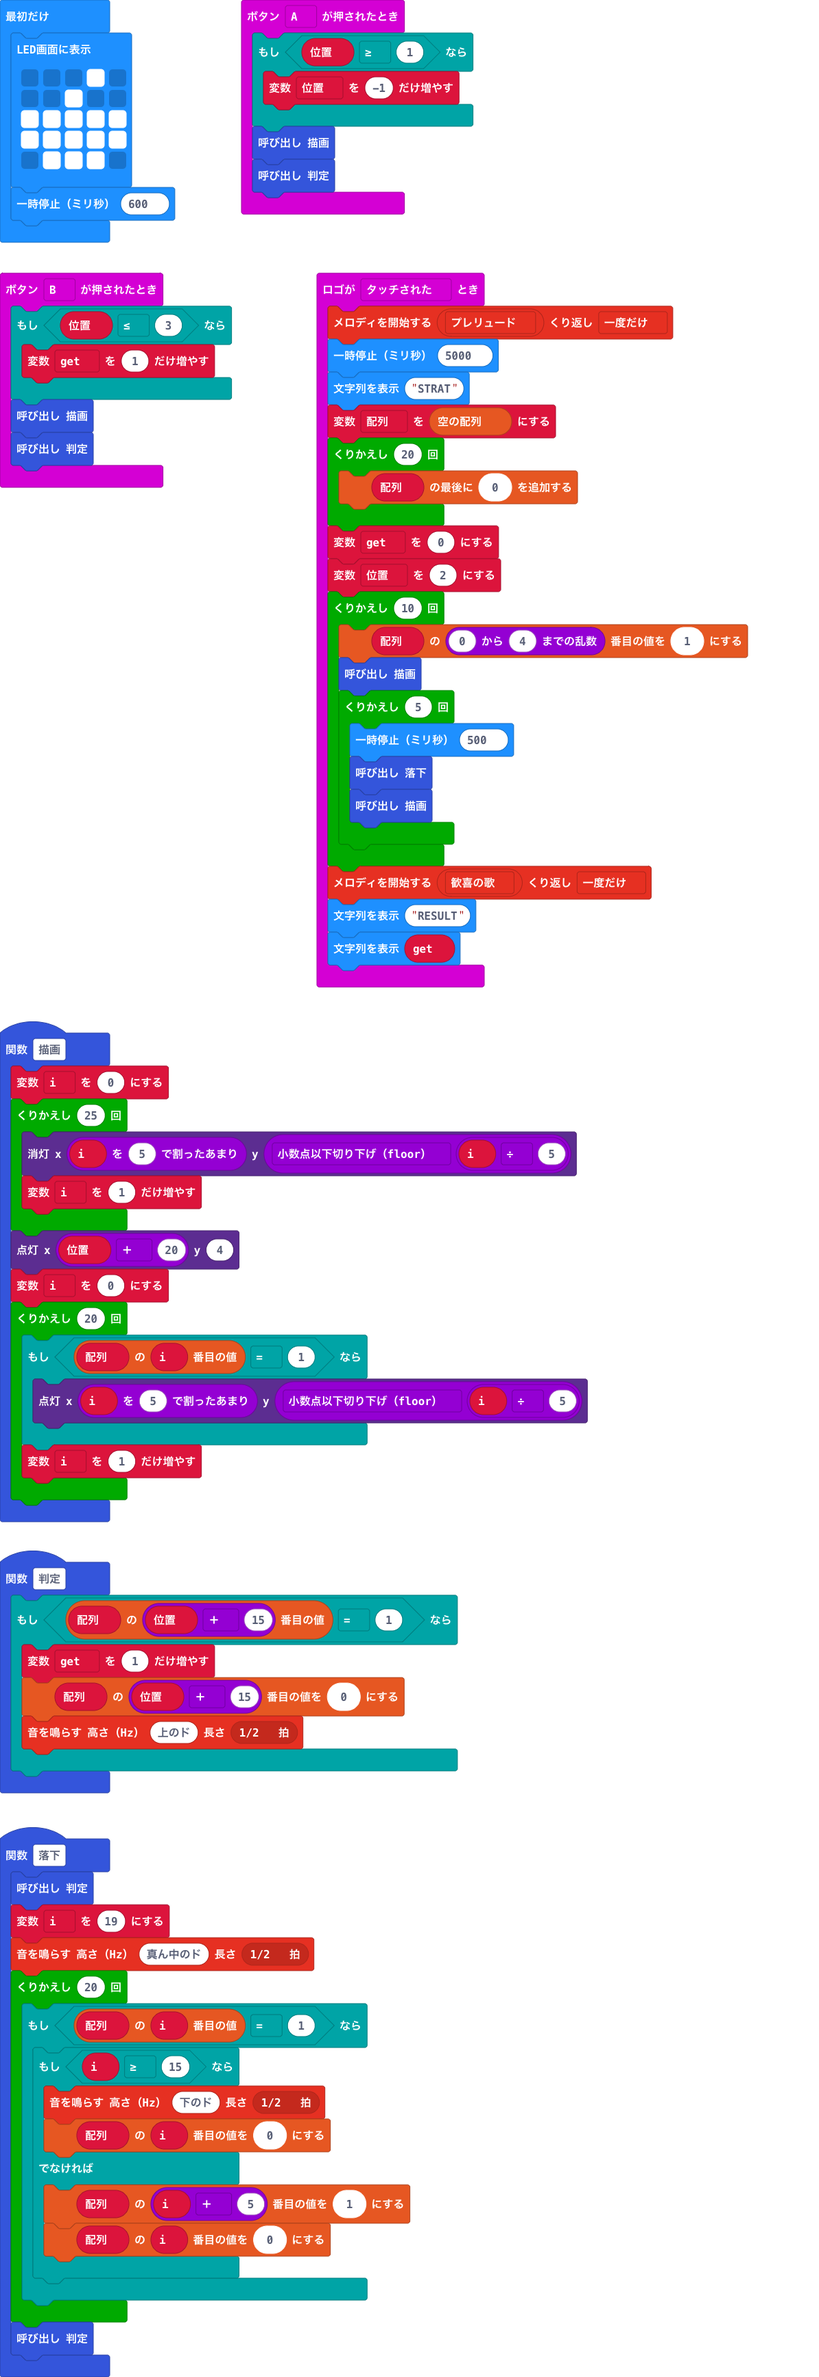
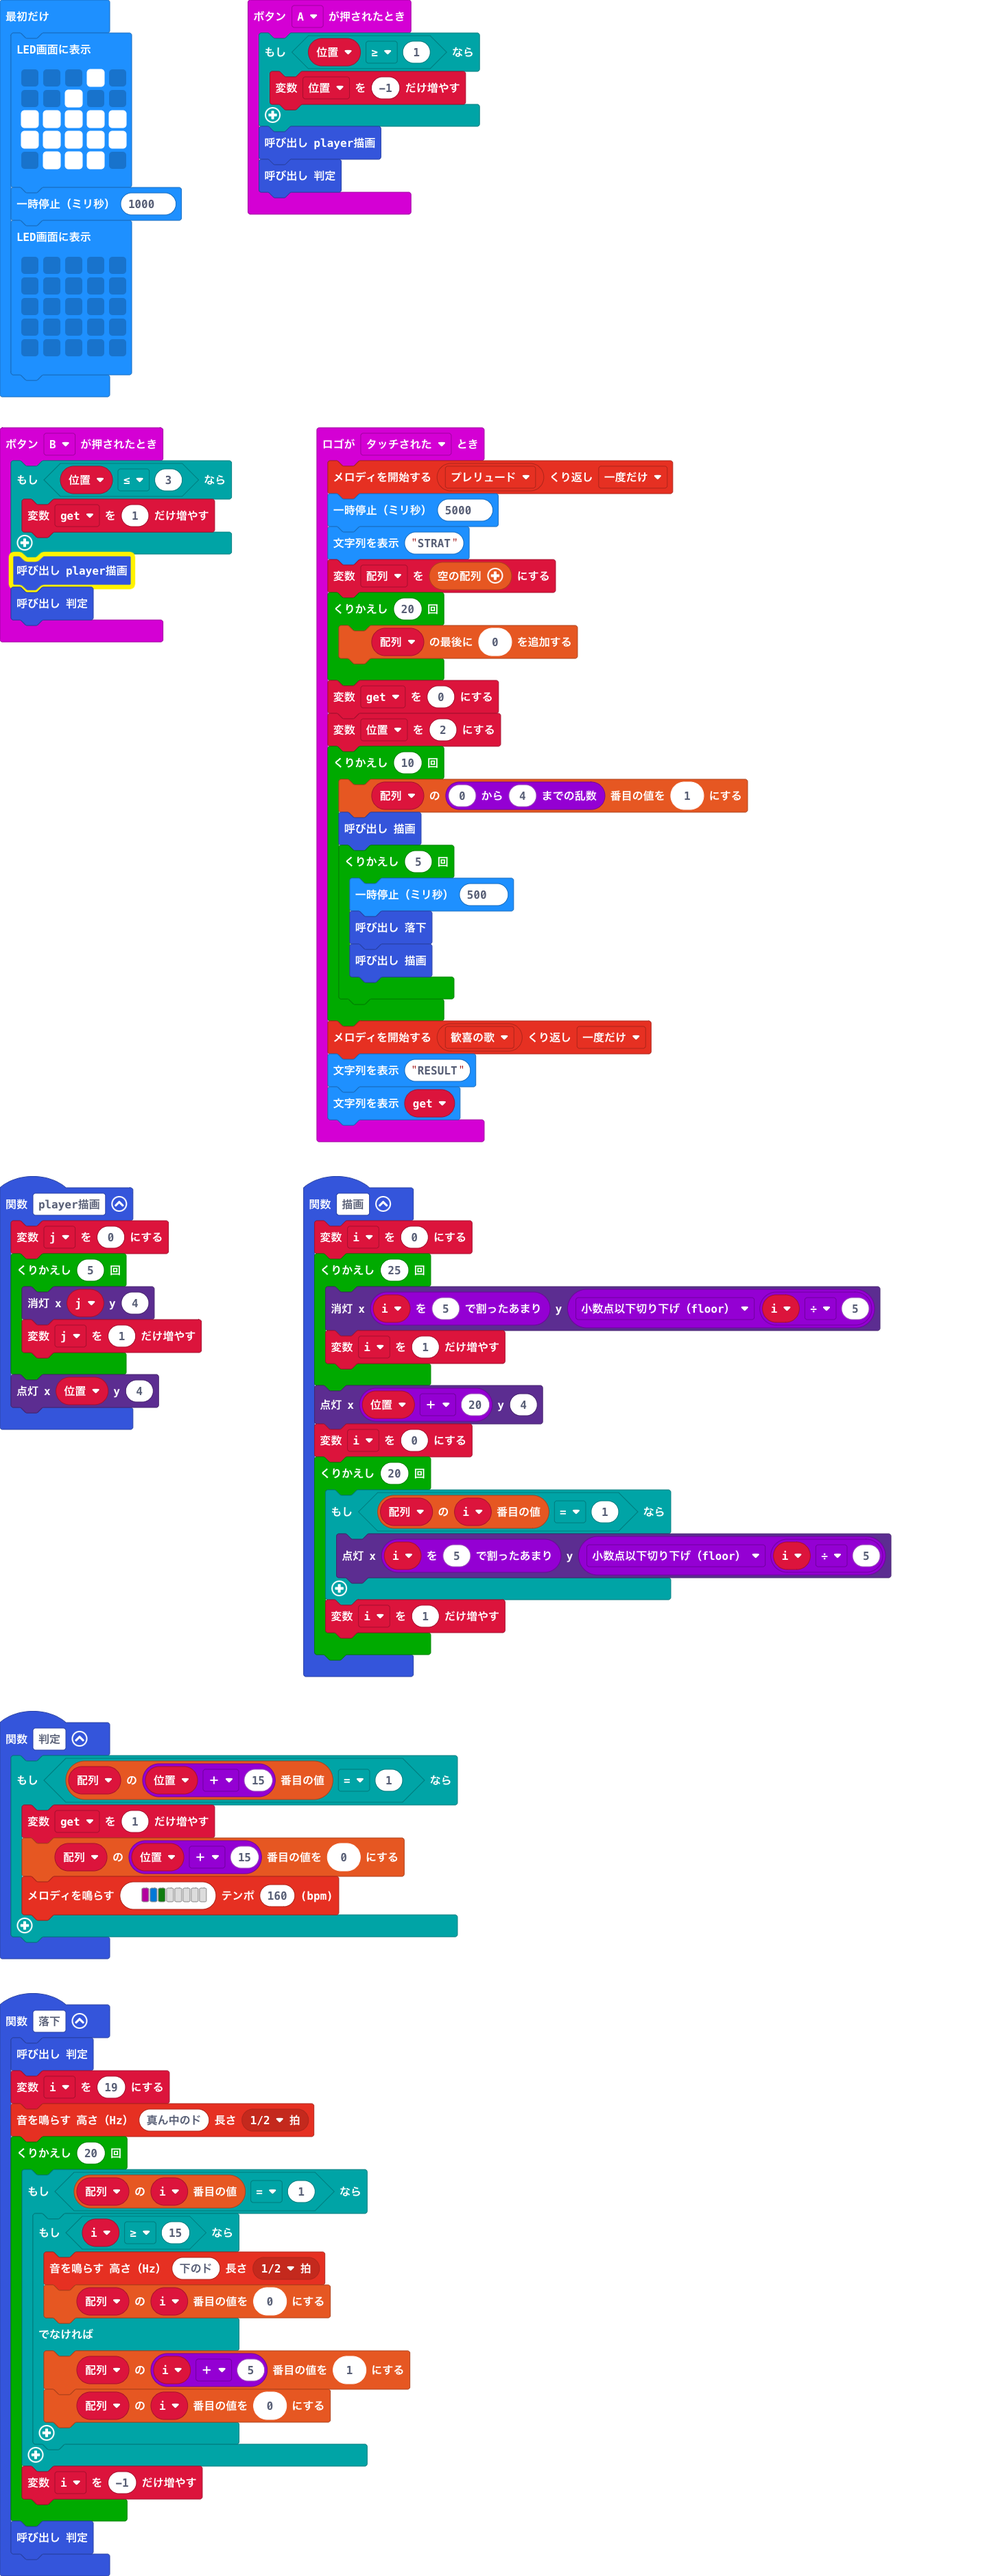
更新 main.blocks, main.ts

diff --git a/main.ts b/main.ts
@@ -21,6 +21,14 @@ input.onLogoEvent(TouchButtonEvent.Touched, function () {
     basic.showString("RESULT")
     basic.showString("" + (_get))
 })
+function player描画 () {
+    j = 0
+    for (let index = 0; index < 5; index++) {
+        led.unplot(j, 4)
+        j += 1
+    }
+    led.plot(位置, 4)
+}
 function 落下 () {
     判定()
     i = 19
@@ -35,6 +43,7 @@ function 落下 () {
                 配列[i] = 0
             }
         }
+        i += -1
     }
     判定()
 }
@@ -42,14 +51,14 @@ function 判定 () {
     if (配列[位置 + 15] == 1) {
         _get += 1
         配列[位置 + 15] = 0
-        music.playTone(523, music.beat(BeatFraction.Half))
+        music.playMelody("C E G - - - - - ", 160)
     }
 }
 input.onButtonPressed(Button.A, function () {
     if (位置 >= 1) {
         位置 += -1
     }
-    描画()
+    player描画()
     判定()
 })
 function 描画 () {
@@ -71,10 +80,11 @@ input.onButtonPressed(Button.B, function () {
     if (位置 <= 3) {
         _get += 1
     }
-    描画()
+    player描画()
     判定()
 })
 let i = 0
+let j = 0
 let 位置 = 0
 let _get = 0
 let 配列: number[] = []
@@ -85,4 +95,11 @@ basic.showLeds(`
     # # # # #
     . # # # .
     `)
-basic.pause(600)
+basic.pause(1000)
+basic.showLeds(`
+    . . . . .
+    . . . . .
+    . . . . .
+    . . . . .
+    . . . . .
+    `)
